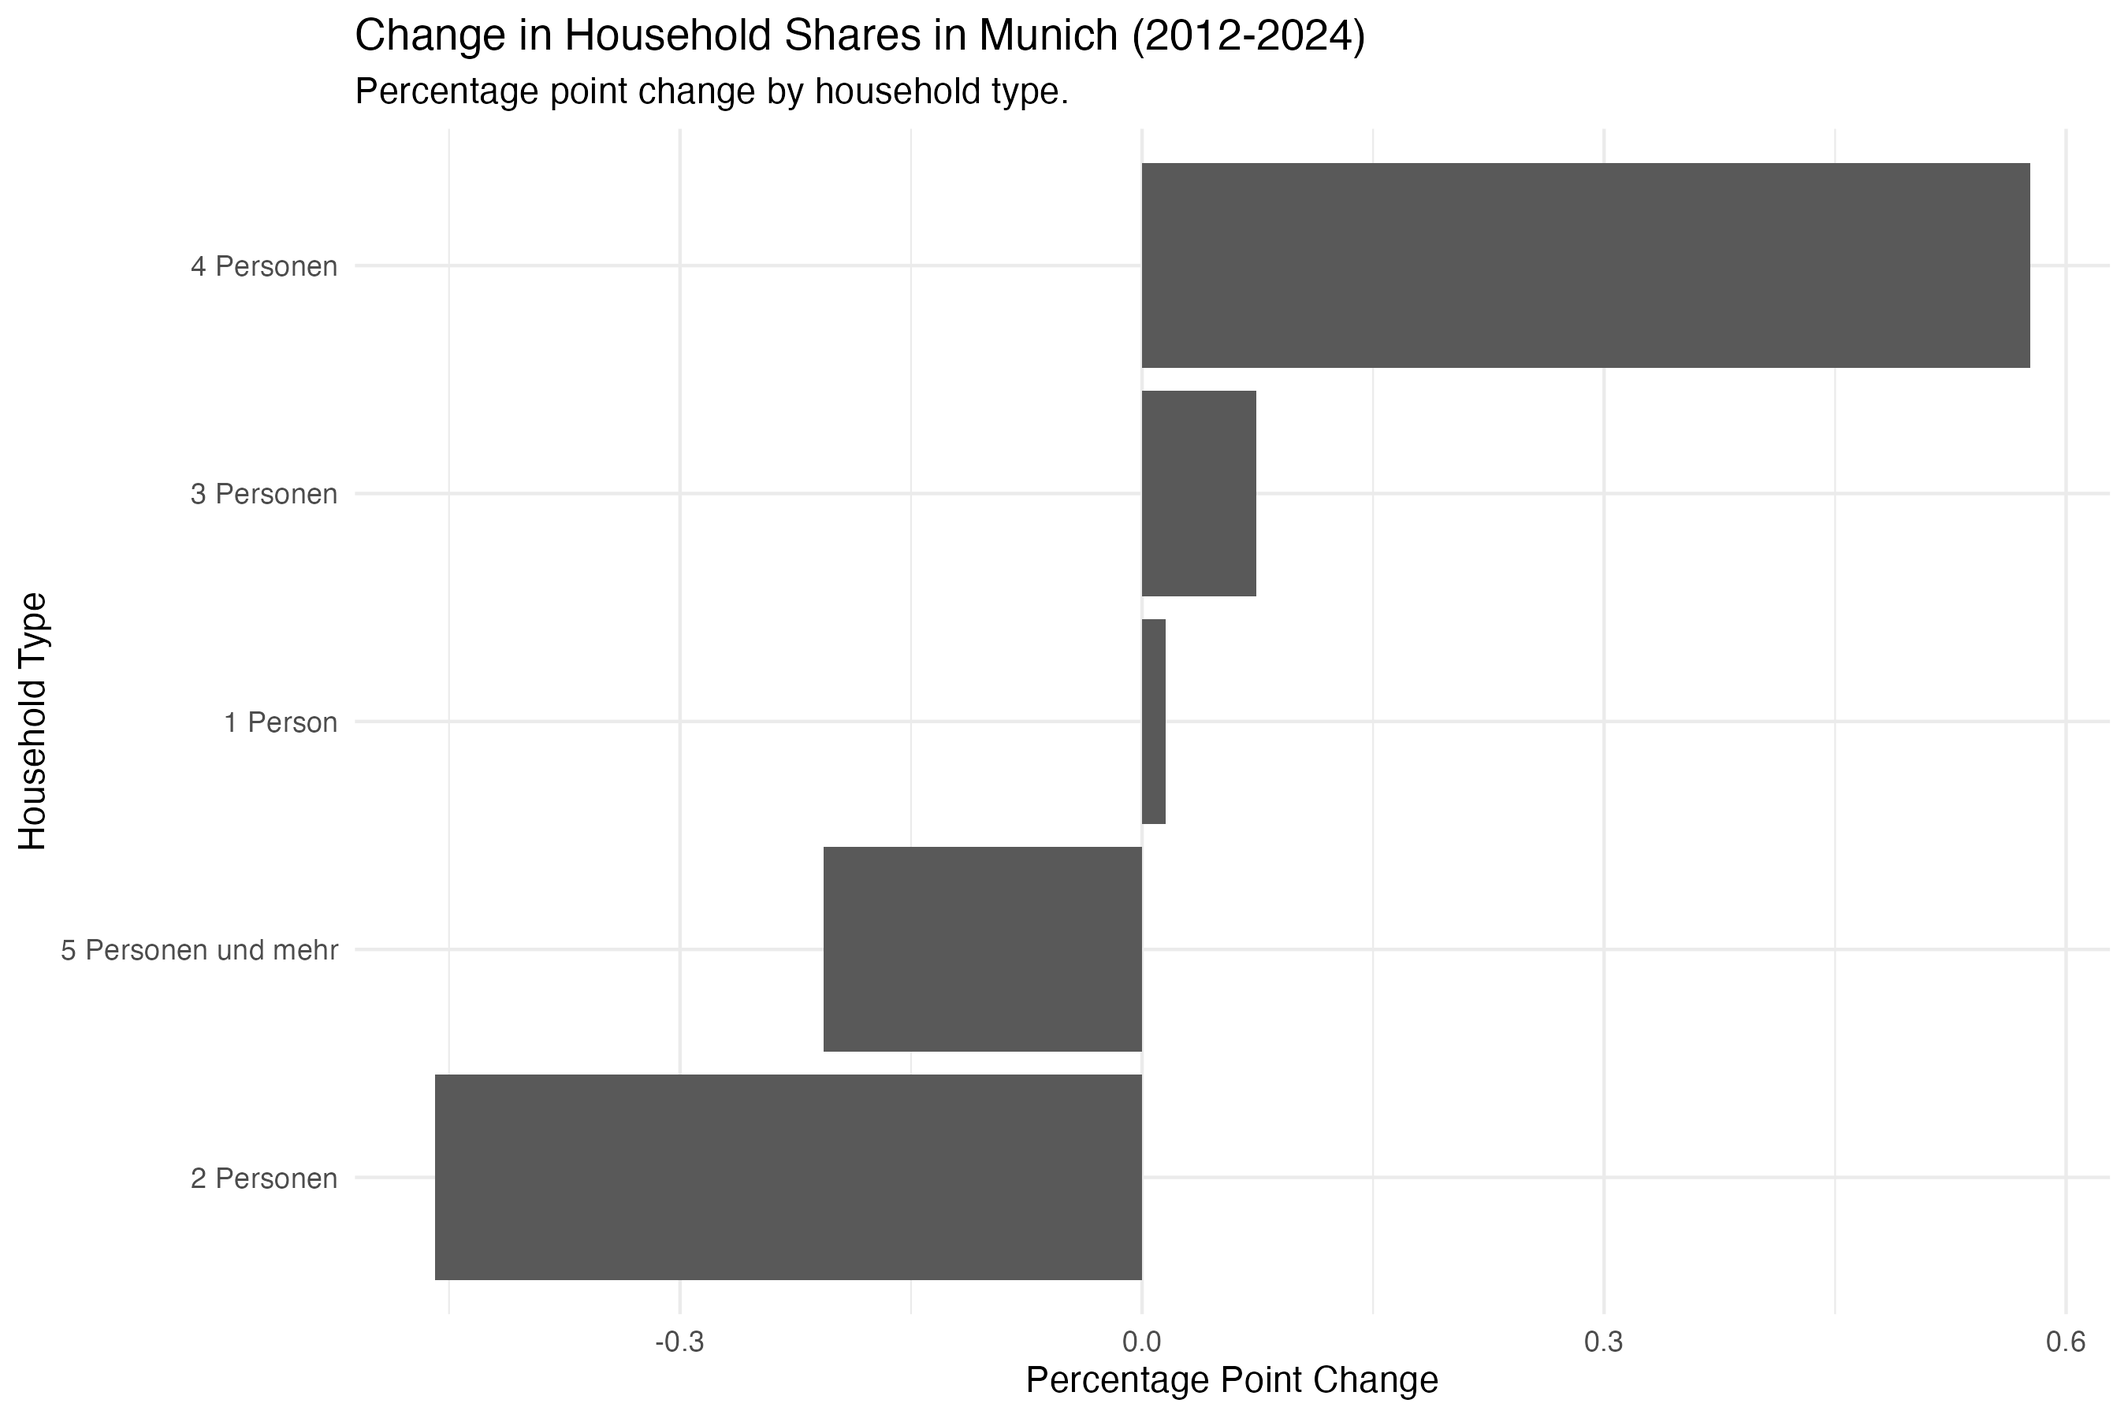
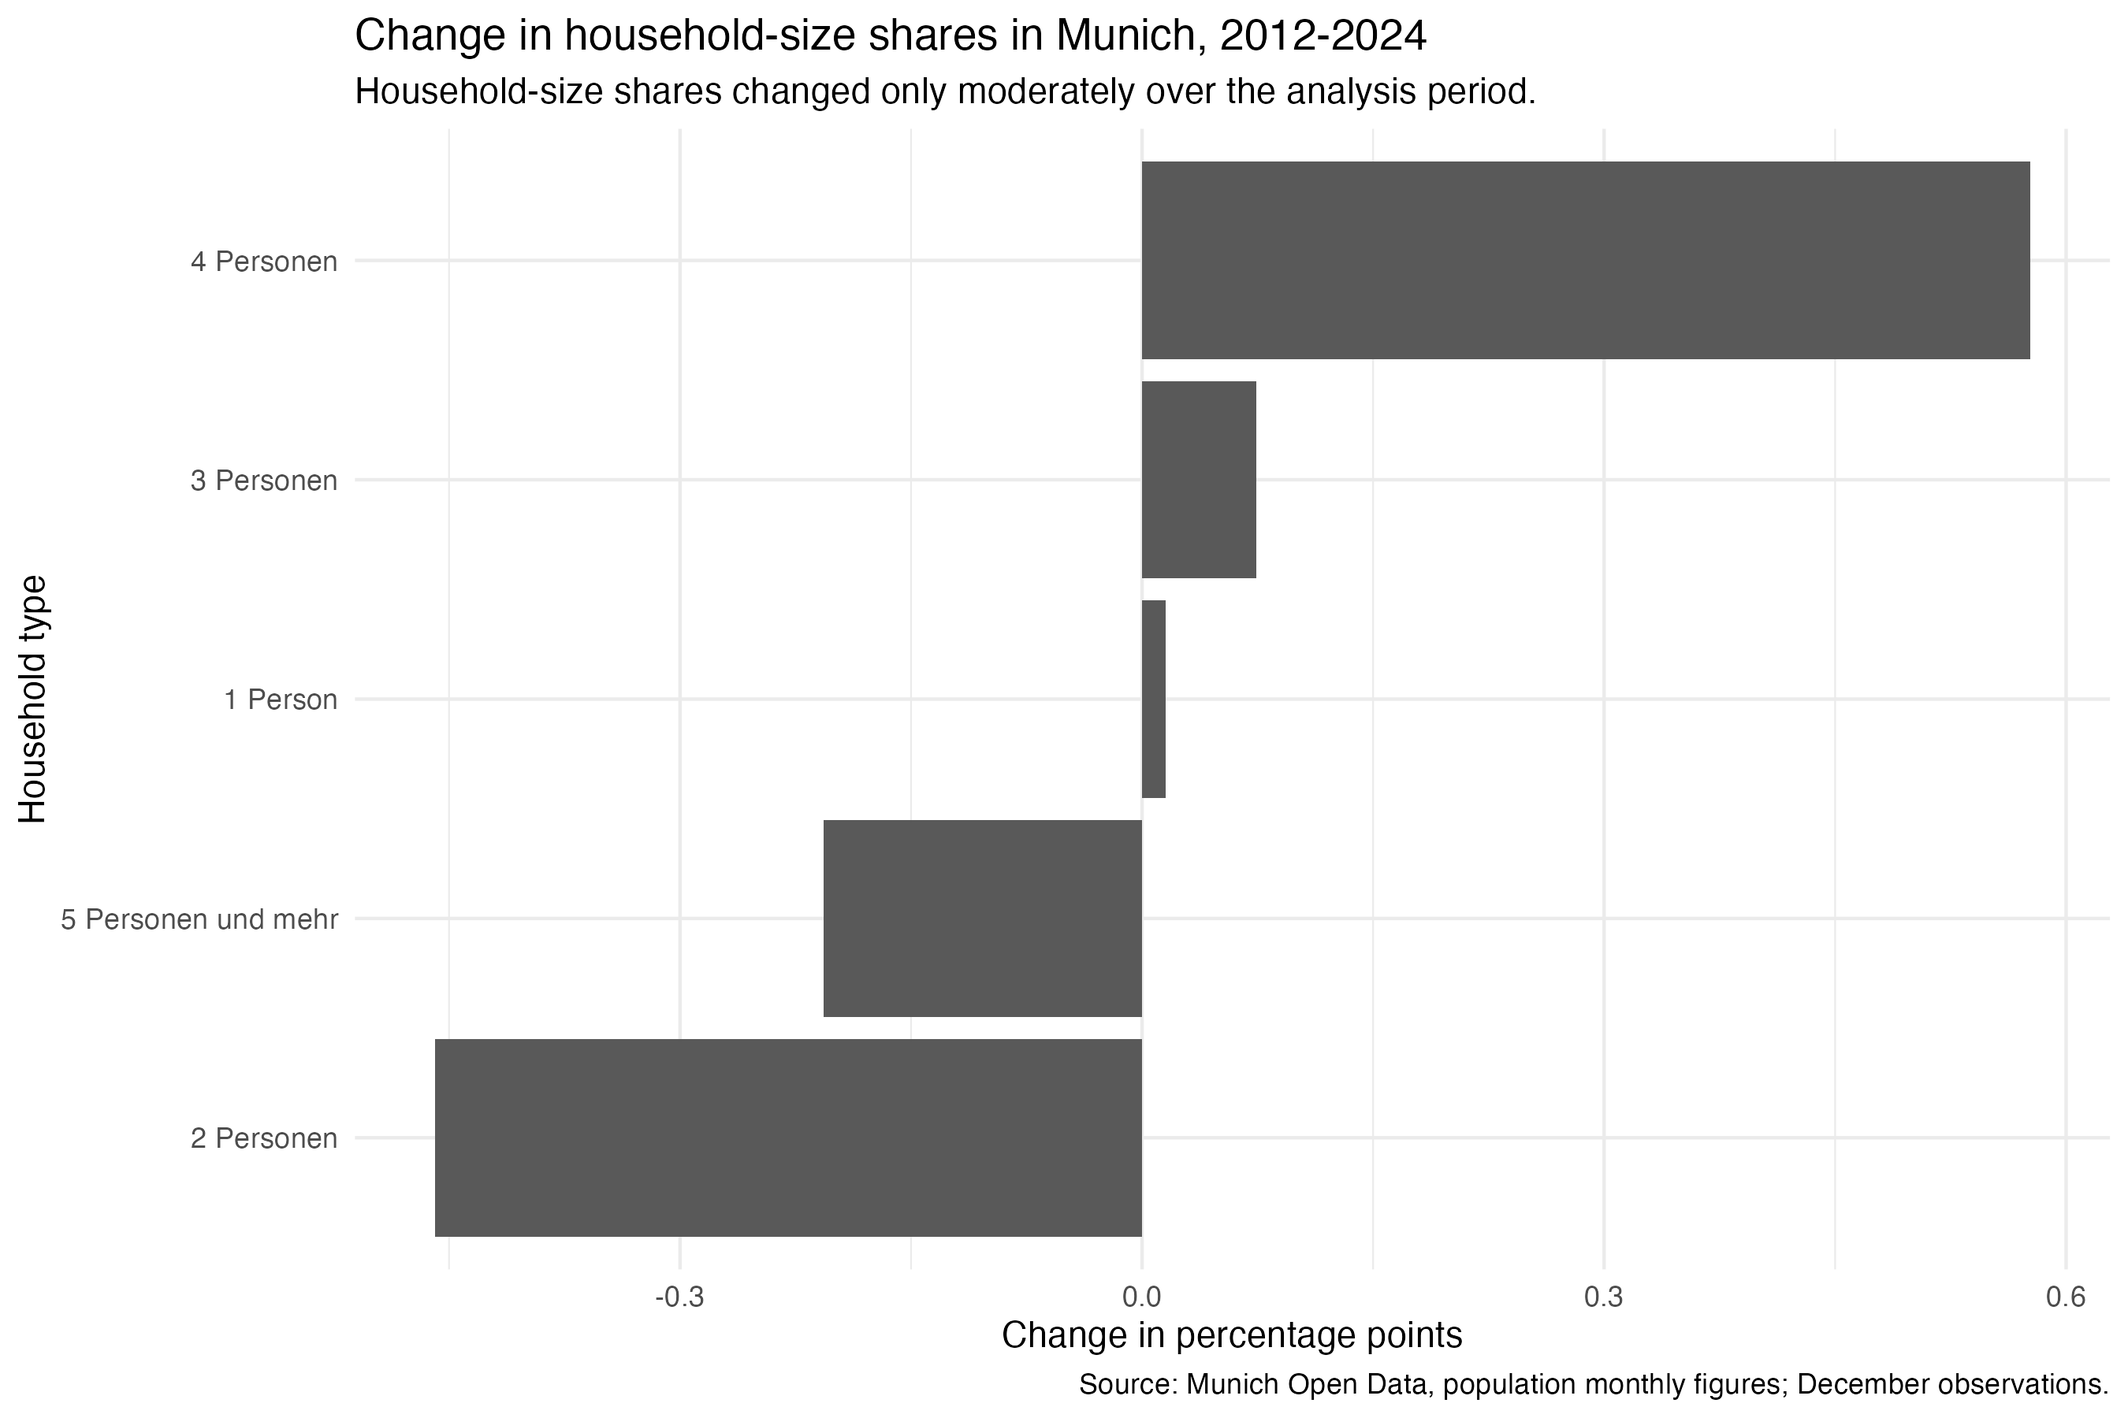
update household section in proposal

diff --git a/docs/proposal.html b/docs/proposal.html
@@ -326,15 +326,16 @@ $ year                           &lt;dbl&gt; 2025, 2025, 2025, 2025, 2025, 2025,
 <span id="cb4-12"><a href="#cb4-12" aria-hidden="true" tabindex="-1"></a>  )</span>
 <span id="cb4-13"><a href="#cb4-13" aria-hidden="true" tabindex="-1"></a></span>
 <span id="cb4-14"><a href="#cb4-14" aria-hidden="true" tabindex="-1"></a>migration_yearly <span class="ot">&lt;-</span> migration_data <span class="sc">%&gt;%</span></span>
-<span id="cb4-15"><a href="#cb4-15" aria-hidden="true" tabindex="-1"></a>  <span class="fu">group_by</span>(MONATSZAHL, year) <span class="sc">%&gt;%</span></span>
-<span id="cb4-16"><a href="#cb4-16" aria-hidden="true" tabindex="-1"></a>  <span class="fu">summarise</span>(</span>
-<span id="cb4-17"><a href="#cb4-17" aria-hidden="true" tabindex="-1"></a>    <span class="at">mean_value =</span> <span class="fu">mean</span>(WERT, <span class="at">na.rm =</span> <span class="cn">TRUE</span>),</span>
-<span id="cb4-18"><a href="#cb4-18" aria-hidden="true" tabindex="-1"></a>    <span class="at">.groups =</span> <span class="st">"drop"</span></span>
-<span id="cb4-19"><a href="#cb4-19" aria-hidden="true" tabindex="-1"></a>  )</span>
-<span id="cb4-20"><a href="#cb4-20" aria-hidden="true" tabindex="-1"></a></span>
-<span id="cb4-21"><a href="#cb4-21" aria-hidden="true" tabindex="-1"></a><span class="fu">glimpse</span>(migration_yearly)</span></code></pre></div><button title="Copy to Clipboard" class="code-copy-button"><i class="bi"></i></button></div>
+<span id="cb4-15"><a href="#cb4-15" aria-hidden="true" tabindex="-1"></a>  <span class="fu">filter</span>(year <span class="sc">&gt;=</span> <span class="dv">2000</span>, year <span class="sc">&lt;=</span> <span class="dv">2024</span>) <span class="sc">%&gt;%</span></span>
+<span id="cb4-16"><a href="#cb4-16" aria-hidden="true" tabindex="-1"></a>  <span class="fu">group_by</span>(MONATSZAHL, year) <span class="sc">%&gt;%</span></span>
+<span id="cb4-17"><a href="#cb4-17" aria-hidden="true" tabindex="-1"></a>  <span class="fu">summarise</span>(</span>
+<span id="cb4-18"><a href="#cb4-18" aria-hidden="true" tabindex="-1"></a>    <span class="at">mean_value =</span> <span class="fu">mean</span>(WERT, <span class="at">na.rm =</span> <span class="cn">TRUE</span>),</span>
+<span id="cb4-19"><a href="#cb4-19" aria-hidden="true" tabindex="-1"></a>    <span class="at">.groups =</span> <span class="st">"drop"</span></span>
+<span id="cb4-20"><a href="#cb4-20" aria-hidden="true" tabindex="-1"></a>  )</span>
+<span id="cb4-21"><a href="#cb4-21" aria-hidden="true" tabindex="-1"></a></span>
+<span id="cb4-22"><a href="#cb4-22" aria-hidden="true" tabindex="-1"></a><span class="fu">glimpse</span>(migration_yearly)</span></code></pre></div><button title="Copy to Clipboard" class="code-copy-button"><i class="bi"></i></button></div>
 <div class="cell-output cell-output-stdout">
-<pre><code>Rows: 78
+<pre><code>Rows: 75
 Columns: 3
 $ MONATSZAHL &lt;chr&gt; "Wanderungssaldo", "Wanderungssaldo", "Wanderungssaldo", "W…
 $ year       &lt;dbl&gt; 2000, 2001, 2002, 2003, 2004, 2005, 2006, 2007, 2008, 2009,…
@@ -362,7 +363,7 @@ $ category &lt;chr&gt; "1 Person", "1 Person", "1 Person", "1 Person", "1 Person
 $ count    &lt;dbl&gt; 468540, 461441, 452585, 448248, 449561, 448732, 446350, 44225…</code></pre>
 </div>
 </div>
-<p>The household categories data contain monthly observations from 2000 to 2025. However, the main analysis is restricted to the complete years from 2012 to 2024. The year 2025 is excluded from the main analysis because the available observations for 2025 are incomplete. To avoid counting several monthly observations for the same year, the household analysis uses the December observations as an annual baseline.</p>
+<p>The household analysis focuses on the years 2012 to 2024, because this is the consistent period available for household-size categories in the project dataset. The year 2025 is excluded from the main analysis because the available observations for 2025 are incomplete.To avoid counting several monthly observations for the same year, the analysis uses December observations as an annual baseline.</p>
 <p>For the first part of the analysis, five household-size categories are used:</p>
 <ul>
 <li>1 Person</li>
@@ -372,7 +373,7 @@ $ count    &lt;dbl&gt; 468540, 461441, 452585, 448248, 449561, 448732, 446350, 4
 <li>5 Personen und mehr</li>
 </ul>
 <p>The dataset <code>household_base_filtered</code> contains the absolute number of households by year and household size. From this dataset, we calculate the percentage share of each household type. The resulting table is stored as <code>household_size_baseline</code>.</p>
-<p>For a simpler comparison, group the household types into three categories: <code>1 Person</code>, <code>2 Personen</code> and <code>3+ Personen</code>. The grouped count data are stored in <code>household_grouped</code>, and the grouped percentage data are stored in <code>household_grouped_percentage</code>.</p>
+<p>For a simpler comparison, we also group the household types into three categories: <code>1 Person</code>, <code>2 Personen</code> and <code>3+ Personen</code>. This helps us examine whether the household structure in Munich is shifting toward smaller households. The grouped count data are stored in <code>household_grouped</code>, and the grouped percentage data are stored in <code>household_grouped_percentage</code>.</p>
 </section>
 </section>
 <section id="research-questions" class="level2" data-number="1.2">
@@ -777,7 +778,7 @@ Third, demographic diversification is examined through continental population gr
 <img src="figures/migration_trend_plot.png" class="img-fluid figure-img">
 </div>
 <figcaption class="quarto-float-caption-bottom quarto-float-caption quarto-float-fig" id="fig-migration-trends-caption-0ceaefa1-69ba-4598-a22c-09a6ac19f8ca">
-Figure&nbsp;3: Migration inflows, outflows and migration balance in Munich, 2000-2024.
+Figure&nbsp;3: Yearly averages of monthly migration inflows, outflows and migration balance in Munich, 2000-2024.
 </figcaption>
 </figure>
 </div>
@@ -801,7 +802,7 @@ Figure&nbsp;3: Migration inflows, outflows and migration balance in Munich, 2000
 <img src="figures/migration_balance_rolling_plot.png" class="img-fluid figure-img">
 </div>
 <figcaption class="quarto-float-caption-bottom quarto-float-caption quarto-float-fig" id="fig-migration-balance-caption-0ceaefa1-69ba-4598-a22c-09a6ac19f8ca">
-Figure&nbsp;4: Net migration balance in Munich, 2000-2024 (3-year rolling average).
+Figure&nbsp;4: Yearly average monthly net migration balance in Munich, 2000-2024, with a 3-year rolling average.
 </figcaption>
 </figure>
 </div>
@@ -874,8 +875,8 @@ Figure&nbsp;5: EU and non-EU demographic trends in Munich, 2000-2024.
 </div>
 <p>The figure shows that both EU and non-EU populations increased substantially between 2000 and 2024. However, the growth patterns differ considerably.</p>
 <p>The EU population experienced rapid growth between approximately 2010 and 2016, reaching a peak of more than 220,000 residents before declining slightly in recent years. In contrast, the non-EU population remained relatively stable during the early 2000s but increased strongly after the mid-2010s.</p>
-<p>Around 2018, the non-EU population surpassed the EU population and continued to grow throughout the remainder of the observation period. By 2024, non-EU populations represented the larger of the two groups.</p>
-<p>These results suggest that Munich’s demographic internationalisation has increasingly been driven by non-EU populations in recent years.</p>
+<p>The EU population temporarily exceeded the non-EU population between 2014 and 2018. From around 2019 onward, the non-EU population became larger again and continued to grow throughout the remainder of the observation period. By 2024, non-EU populations represented the larger of the two groups.</p>
+<p>These results suggest that non-EU populations have become an increasingly important component of Munich’s demographic internationalisation in recent years.</p>
 </section>
 <section id="continental-group-comparison" class="level4" data-number="2.1.2.6">
 <h4 data-number="2.1.2.6" class="anchored" data-anchor-id="continental-group-comparison"><span class="header-section-number">2.1.2.6</span> Continental Group Comparison</h4>
@@ -906,7 +907,7 @@ Figure&nbsp;5: EU and non-EU demographic trends in Munich, 2000-2024.
 <p>The faceted trend plot reveals substantial differences in demographic developments across continental population groups between 2000 and 2024.</p>
 <p>European populations remained the largest continental group throughout the observation period, increasing from approximately 236,000 to more than 350,000 residents. Growth accelerated particularly after 2010.</p>
 <p>Asian populations experienced the strongest relative increase among the larger continental groups. The population more than tripled during the observation period, rising from around 25,000 in 2000 to nearly 90,000 in 2024. A particularly strong increase can be observed after 2015.</p>
-<p>African and American populations also grew steadily over time. Both groups approximately doubled in size between 2000 and 2024, although their absolute population levels remained substantially lower than those of European and Asian populations.</p>
+<p>African and American populations also grew steadily over time. American populations approximately doubled, while African populations nearly tripled between 2000 and 2024. Although their absolute population levels remained substantially lower than those of European and Asian populations.</p>
 <p>In contrast, the Australian population remained comparatively small and showed only moderate growth, followed by a relatively stable development after the mid-2010s.</p>
 <p>Overall, the results suggest that Munich’s demographic change has been characterised not only by population growth but also by increasing international diversification. While European populations continue to dominate numerically, Asian, African and American populations have grown considerably faster, indicating a broadening geographical composition of Munich’s population.</p>
 <div class="cell">
@@ -946,7 +947,17 @@ $ category &lt;chr&gt; "1 Person", "1 Person", "1 Person", "1 Person", "1 Person
 $ count    &lt;dbl&gt; 468540, 461441, 452585, 448248, 449561, 448732, 446350, 44225…</code></pre>
 </div>
 </div>
-<p>The household analysis uses the category Haushalte nach Personenzahl from the Munich Open Data population dataset. The analysis focuses on the years from 2012 to 2024, because household-size data are available for this period. To avoid counting several monthly observations for the same year, the analysis uses the December observations as an annual baseline. This is appropriate because household-size categories describe the number of households at a specific point in time rather than monthly flow data. The analysis includes five household-size categories: <code>1 Person</code> <code>2 Personen</code> <code>3 Personen</code> <code>4 Personen</code> <code>5 Personen und mehr</code> The dataset household_base_filtered contains the number of households by year and household size. From this dataset, we calculate the percentage share of each household type. The resulting table is stored as household_size_baseline.</p>
+<p>The household analysis uses the category <code>Haushalte nach Personenzahl</code> from the Munich Open Data population dataset. The analysis focuses on 2012 to 2024, because this is the consistent period available for household-size categories.</p>
+<p>To avoid counting several monthly observations for the same year, December observations are used as an annual baseline. This is appropriate because household-size categories describe the number of households at a specific point in time rather than monthly flow data.</p>
+<p>The analysis includes five household-size categories:</p>
+<ul>
+<li><code>1 Person</code></li>
+<li><code>2 Personen</code></li>
+<li><code>3 Personen</code></li>
+<li><code>4 Personen</code></li>
+<li><code>5 Personen und mehr</code></li>
+</ul>
+<p>The dataset <code>household_base_filtered</code> contains the number of households by year and household size. From this dataset, the percentage share of each household type is calculated and stored as <code>household_size_baseline</code>.</p>
 </section>
 <section id="household-size-trends" class="level4" data-number="2.1.3.2">
 <h4 data-number="2.1.3.2" class="anchored" data-anchor-id="household-size-trends"><span class="header-section-number">2.1.3.2</span> Household Size Trends</h4>
@@ -968,7 +979,7 @@ Figure&nbsp;7: Percentage share of household-size categories in Munich, 2012-202
 </div>
 </div>
 </div>
-<p>The plot provides an initial overview of Munich’s household structure over time. It shows that one-person households remained the largest household category throughout the period, while the relative shares of the other household-size categories changed only moderately.</p>
+<p>The plot provides an initial overview of Munich’s household structure over time. It shows that one-person households remained the largest household category throughout the period, while the relative shares of the other household-size categories changed only moderately. The percentage view is useful because it separates changes in household composition from the overall increase in the number of households.</p>
 </section>
 <section id="change-between-2012-and-2024" class="level4" data-number="2.1.3.3">
 <h4 data-number="2.1.3.3" class="anchored" data-anchor-id="change-between-2012-and-2024"><span class="header-section-number">2.1.3.3</span> Change Between 2012 and 2024</h4>
@@ -1095,9 +1106,10 @@ Figure&nbsp;9: Percentage share of one-person, two-person, and three-or-more-per
 </section>
 <section id="household-structure-analysis" class="level2" data-number="3.3">
 <h2 data-number="3.3" class="anchored" data-anchor-id="household-structure-analysis"><span class="header-section-number">3.3</span> Household Structure Analysis</h2>
-<p>For the household structure analysis, I will filter the population dataset for <code>MONATSZAHL == "Haushalte nach Personenzahl"</code> and use the December observations from 2012 to 2024 as annual reference points. I will use <code>year</code>, <code>category</code> and <code>count</code> from <code>household_base_filtered</code> to compare the absolute number of households in the five categories <code>1 Person</code>, <code>2 Personen</code>, <code>3 Personen</code>, <code>4 Personen</code> and <code>5 Personen und mehr</code>. I will report a line plot of household counts and a summary table comparing the first and last year of the analysis period. This addresses the household research question because it shows which household types increased or decreased most clearly in absolute terms.</p>
-<p>I will then calculate the percentage share of each household type per year using <code>household_size_baseline</code>. I will report a line plot of household-size shares over time. This step addresses the research question because it shows whether the distribution of household sizes changed, instead of only showing growth in the total number of households.</p>
-<p>Finally, I will use <code>household_grouped_percentage</code> to compare the grouped categories <code>1 Person</code>, <code>2 Personen</code> and <code>3+ Personen</code>. This dataset contains both grouped counts and percentage shares, so it can be used to show absolute developments as well as relative changes. I will report a grouped trend plot or summary table to examine whether smaller households became more important over time.</p>
+<p>The household analysis is structured around three outputs.</p>
+<p>First, the percentage share of five household-size categories is visualised from 2012 to 2024.</p>
+<p>Second, the percentage point change between 2012 and 2024 is calculated to identify which household types changed most.</p>
+<p>Third, household types are grouped into <code>1 Person</code>, <code>2 Personen</code> and <code>3+ Personen</code> to assess whether there is evidence of a shift toward smaller households.</p>
 </section>
 </section>
 <section id="workflow-organisation" class="level1" data-number="4">
